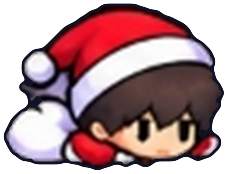
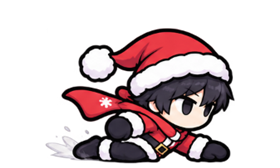
hd79: fix mobile studio intro audio unlock and replace Santa character with 8-frame HD sprites

diff --git a/js/studio-intro.js b/js/studio-intro.js
@@ -116,8 +116,11 @@ window.StudioIntro = (function () {
       cancelAnimationFrame(rafId);
       rafId = 0;
     }
-    if (overlayEl && unlockTapFn) {
-      try { overlayEl.removeEventListener('pointerdown', unlockTapFn); } catch {}
+    if (unlockTapFn) {
+      try { window.removeEventListener('touchstart', unlockTapFn, true); } catch {}
+      try { window.removeEventListener('pointerdown', unlockTapFn, true); } catch {}
+      try { window.removeEventListener('click', unlockTapFn, true); } catch {}
+      try { window.removeEventListener('keydown', unlockTapFn, true); } catch {}
       unlockTapFn = null;
     }
     if (typeof stopAudioFn === 'function') {
@@ -154,21 +157,23 @@ window.StudioIntro = (function () {
     let audioStarted = false;
     let audioPending = false;
     let animStartMs = 0;
-    function tryStartStudioAudio() {
-      if (audioStarted || audioPending || !active) return;
+    function tryStartStudioAudio(fromGesture = false) {
+      if (audioStarted || !active) return;
+      if (!fromGesture && audioPending) return;
       if (window.SFX && typeof window.SFX.playStudioIntro === 'function') {
         try {
           const elapsed = animStartMs > 0 ? Math.max(0, (performance.now() - animStartMs) / 1000) : 0;
           if (elapsed >= DUR - 0.25) return;
-          const handle = window.SFX.playStudioIntro(elapsed);
+          const handle = window.SFX.playStudioIntro(elapsed, fromGesture);
           if (handle && handle.started) {
             audioStarted = true;
+            audioPending = false;
             stopAudioFn = handle.stop;
-          } else if (handle && handle.resumePromise && typeof handle.resumePromise.then === 'function') {
+          } else if (!fromGesture && handle && handle.resumePromise && typeof handle.resumePromise.then === 'function') {
             audioPending = true;
             handle.resumePromise.then(() => {
               audioPending = false;
-              if (!audioStarted && active) tryStartStudioAudio();
+              if (!audioStarted && active) tryStartStudioAudio(true);
             }).catch(() => {
               audioPending = false;
             });
@@ -179,13 +184,16 @@ window.StudioIntro = (function () {
       }
     }
 
-    // Attempt immediate audio playback; also unlock & sync on first user tap if browser suspended WebAudio
-    tryStartStudioAudio();
+    // Attempt immediate audio playback; also synchronously unlock & sync on first mobile gesture
+    tryStartStudioAudio(false);
     unlockTapFn = () => {
       if (!active) return;
-      if (!audioStarted) tryStartStudioAudio();
+      if (!audioStarted) tryStartStudioAudio(true);
     };
-    overlayEl.addEventListener('pointerdown', unlockTapFn, { passive: true });
+    window.addEventListener('touchstart', unlockTapFn, true);
+    window.addEventListener('pointerdown', unlockTapFn, true);
+    window.addEventListener('click', unlockTapFn, true);
+    window.addEventListener('keydown', unlockTapFn, true);
 
     const isMobile = (() => {
       try {
@@ -502,6 +510,36 @@ window.StudioIntro = (function () {
         // 6. Subtle Cinema Vignette
         ctx.fillStyle = vigGrad;
         ctx.fillRect(0, 0, W, H);
+
+        // 7. Mobile Autoplay Unlock Prompt (shown ONLY while browser holds audio suspended)
+        if (!audioStarted && t > 0.25 && t < DUR - 0.8) {
+          const pulse = 0.62 + 0.38 * Math.sin(t * 4.5);
+          ctx.save();
+          ctx.globalAlpha = pulse * globalFade;
+          const lbl = '🔊 화면을 터치하면 사운드가 켜집니다';
+          ctx.font = '700 13px "Paperlogy", "Apple SD Gothic Neo", "Noto Sans KR", sans-serif';
+          const tw = ctx.measureText(lbl).width;
+          const bw = tw + 26;
+          const bh = 28;
+          const bx = W * 0.5 - bw * 0.5;
+          const by = Math.max(16, H - 46);
+          ctx.fillStyle = 'rgba(10, 18, 38, 0.72)';
+          ctx.strokeStyle = 'rgba(156, 206, 255, 0.55)';
+          ctx.lineWidth = 1.2;
+          ctx.beginPath();
+          if (typeof ctx.roundRect === 'function') {
+            ctx.roundRect(bx, by, bw, bh, 14);
+          } else {
+            ctx.rect(bx, by, bw, bh);
+          }
+          ctx.fill();
+          ctx.stroke();
+          ctx.fillStyle = '#e6f2ff';
+          ctx.textAlign = 'center';
+          ctx.textBaseline = 'middle';
+          ctx.fillText(lbl, W * 0.5, by + bh * 0.5 + 0.5);
+          ctx.restore();
+        }
 
         rafId = requestAnimationFrame(drawFrame);
       }

diff --git a/index.html b/index.html
@@ -9,14 +9,14 @@
   <meta name="theme-color" content="#0d2147" />
   <link rel="icon" type="image/png" sizes="192x192" href="assets/icons/icon-192.png?v=20261121hd21" />
   <link rel="apple-touch-icon" sizes="180x180" href="assets/icons/apple-touch-icon-180.png?v=20261121hd21" />
-  <link rel="manifest" href="manifest.json?v=20261121hd78" />
+  <link rel="manifest" href="manifest.json?v=20261121hd79" />
   <title>한국 날씨에서 살아남기</title>
   <link rel="preload" as="image" href="assets/studio/yagun_left.png?v=20261121hd59" />
   <link rel="preload" as="image" href="assets/studio/yagun_right.png?v=20261121hd59" />
   <link rel="preload" as="image" href="assets/studio/yagun_text.png?v=20261121hd59" />
   <link rel="preload" as="image" href="assets/logo.png" />
   <link rel="preload" as="font" type="font/ttf" href="assets/fonts/Paperlogy-9Black.ttf" crossorigin />
-  <link rel="stylesheet" href="style.css?v=20261121hd78" />
+  <link rel="stylesheet" href="style.css?v=20261121hd79" />
 </head>
 <body>
   <div id="mobile-app">
@@ -1109,14 +1109,14 @@
   <!-- Official Firebase Auth SDK (Google Real OAuth) -->
   <script src="https://www.gstatic.com/firebasejs/10.14.1/firebase-app-compat.js"></script>
   <script src="https://www.gstatic.com/firebasejs/10.14.1/firebase-auth-compat.js"></script>
-  <script src="js/data.js?v=20261121hd78"></script>
-  <script src="js/ui-icons.js?v=20261121hd78"></script>
-  <script src="js/weather-live.js?v=20261121hd78"></script>
-  <script src="js/audio.js?v=20261121hd78"></script>
-  <script src="js/studio-intro.js?v=20261121hd78"></script>
-  <script src="js/online.js?v=20261121hd78"></script>
-  <script src="js/renderer.js?v=20261121hd78"></script>
-  <script src="js/game.js?v=20261121hd78"></script>
+  <script src="js/data.js?v=20261121hd79"></script>
+  <script src="js/ui-icons.js?v=20261121hd79"></script>
+  <script src="js/weather-live.js?v=20261121hd79"></script>
+  <script src="js/audio.js?v=20261121hd79"></script>
+  <script src="js/studio-intro.js?v=20261121hd79"></script>
+  <script src="js/online.js?v=20261121hd79"></script>
+  <script src="js/renderer.js?v=20261121hd79"></script>
+  <script src="js/game.js?v=20261121hd79"></script>
   <script>
     if ('serviceWorker' in navigator && (location.protocol === 'https:' || location.hostname === 'localhost')) {
       window.addEventListener('load', () => {

diff --git a/js/audio.js b/js/audio.js
@@ -860,15 +860,31 @@ window.SFX = (function () {
         });
       }
     },
-    playStudioIntro(offsetSec = 0) {
+    unlock() {
+      const c = ensure();
+      if (!c) return null;
+      try {
+        if (c.state === 'suspended' || c.state === 'interrupted') {
+          c.resume().catch(() => {});
+        }
+        // iOS Safari hardware WebAudio unlock inside synchronous gesture
+        const buf = c.createBuffer(1, 1, c.sampleRate || 44100);
+        const src = c.createBufferSource();
+        src.buffer = buf;
+        src.connect(c.destination);
+        src.start(0);
+      } catch {}
+      return c;
+    },
+    playStudioIntro(offsetSec = 0, fromGesture = false) {
       // YAGUN STUDIO 6-second cinematic intro audio (never overlaps BGM or itself!)
       if (!sfxEnabled || sfxVolume <= 0) return { started: false, stop() {} };
-      const c = ensure();
+      const c = fromGesture ? this.unlock() : ensure();
       if (!c) return { started: false, stop() {} };
-      if (c.state === 'suspended') {
+      if (c.state === 'suspended' || c.state === 'interrupted') {
         let resumePromise = null;
         try { resumePromise = c.resume(); } catch {}
-        if (c.state === 'suspended') {
+        if (!fromGesture && c.state !== 'running') {
           return { started: false, resumePromise, stop() {} };
         }
       }

diff --git a/js/game.js b/js/game.js
@@ -4642,7 +4642,7 @@
     el.homeHeroStage.className = `bs-home-stage ${tierCls}${unlocked ? '' : ' locked'}`;
     lastHomeHeroSrc = '';
     const homePose = (skin && skin.customIdleFrames) ? 'idle' : 'run';
-    const charSprVer = anim.skin === 'skier' ? '20261121hd67' : ASSET_VER;
+    const charSprVer = anim.skin === 'skier' ? '20261121hd67' : (anim.skin === 'santa' ? '20261121hd79' : ASSET_VER);
     el.homeHeroImg.src = `assets/chars/${anim.skin}_${homePose}_0.png?v=${charSprVer}`;
     el.homeHeroImg.alt = skin ? `${ch.name} (${skin.name})` : ch.name;
     el.homeHeroImg.style.filter = getSkinFilter(skin);
@@ -4708,7 +4708,7 @@
     const frameCnt = useIdle ? skin.customIdleFrames : anim.frames;
     const fps = useIdle ? 6.5 : (frameCnt >= 6 ? 13 : (frameCnt >= 3 ? 9.5 : 7.5));
     const frame = Math.floor(t * fps) % frameCnt;
-    const charSprVer = anim.skin === 'skier' ? '20261121hd67' : ASSET_VER;
+    const charSprVer = anim.skin === 'skier' ? '20261121hd67' : (anim.skin === 'santa' ? '20261121hd79' : ASSET_VER);
     const src = `assets/chars/${anim.skin}_${useIdle ? 'idle' : 'run'}_${frame}.png?v=${charSprVer}`;
     const readySrc = getPreloadedHomeHeroSrc(src);
     if (readySrc && readySrc !== lastHomeHeroSrc) {

diff --git a/js/renderer.js b/js/renderer.js
@@ -32,7 +32,7 @@ window.RunRenderer = (function () {
     { id: 'blue', frames: 3, runFrames: 8 },
     { id: 'hanbok', frames: 3, runFrames: 8 },
     { id: 'skier', frames: 4, runFrames: 8, ver: '20261121hd67' },
-    { id: 'santa', frames: 2 },
+    { id: 'santa', frames: 4, runFrames: 8, ver: '20261121hd79' },
     { id: 'catgirl', frames: 4, runFrames: 8 },
     { id: 'hades', frames: 3, runFrames: 4 }
   ];

diff --git a/js/data.js b/js/data.js
@@ -178,8 +178,9 @@ window.RUN_DATA = (function () {
       icon: '🎅',
       spriteKey: 'santa_idle_0',
       animSkin: 'santa',
-      animFrames: 2,
-      avatar: 'assets/chars/port_santa.png?v=20261121hd9',
+      animFrames: 4,
+      runFrames: 8,
+      avatar: 'assets/chars/port_santa.png?v=20261121hd79',
       auraType: 'santa',
       price: 1350,
       baseHp: 5,

diff --git a/sw.js b/sw.js
@@ -1,4 +1,4 @@
-const CACHE_NAME = 'k-weather-survival-v20261121hd78';
+const CACHE_NAME = 'k-weather-survival-v20261121hd79';
 const ASSET_CACHE_NAME = 'k-weather-survival-assets-v1';
 const CORE_ASSETS = [
   './',
